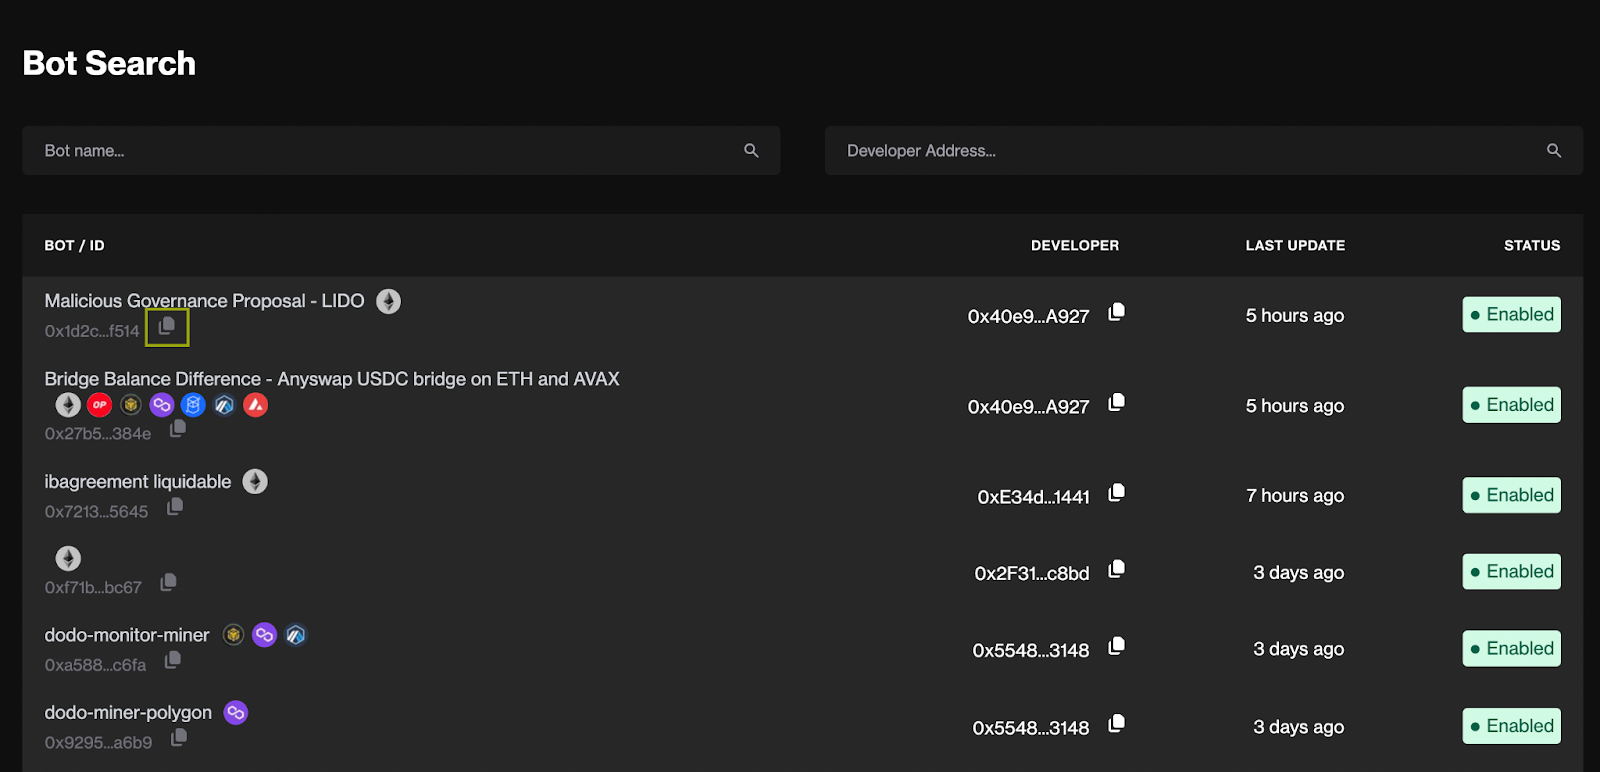
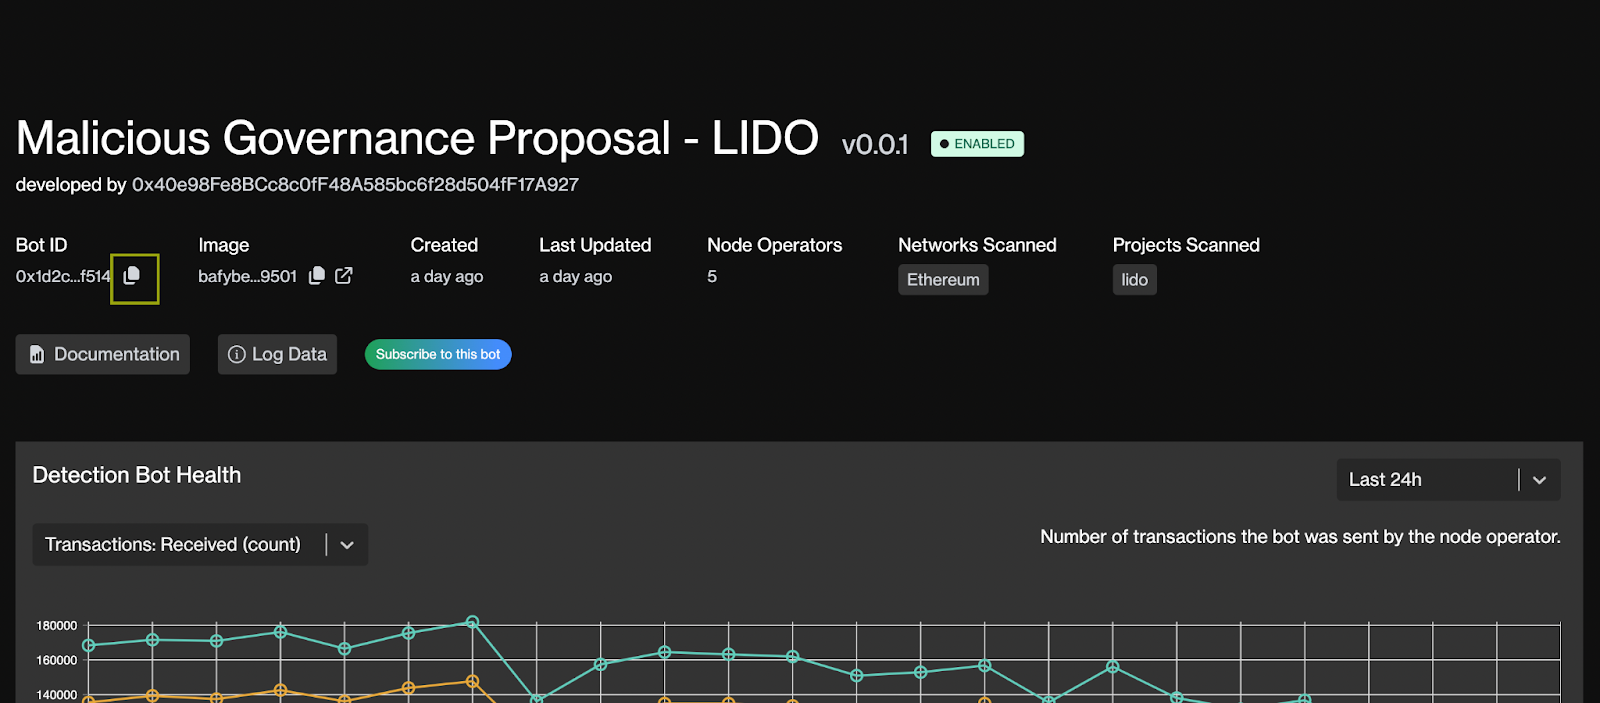
bot staking edits

diff --git a/docs/stake-on-detection-bot.md b/docs/stake-on-detection-bot.md
@@ -1,6 +1,6 @@
 # Staking on Detection Bots
 
-Staking on Forta Network detection bots occurs on Polygon mainnet. If you need to bridge your FORT tokens from Ethereum to Polygon check out [this guide](bridging-fort.md). This page will describe how to stake on a detection bot.
+This page will describe how to stake on Forta Network detection bots. Staking on bots occurs on Polygon mainnet. If you need to bridge your FORT tokens from Ethereum to Polygon check out [this guide](bridging-fort.md). The minimum stake remains nil to provide maximum accessibility at the outset of permissionless operations.
 
 ## Approve FORT
 
@@ -19,7 +19,7 @@ Staking on Forta Network detection bots occurs on Polygon mainnet. If you need t
 Once approved, you can search for a bot by name using Forta Explorer
 
 1. Go to [https://explorer.forta.network/bot-search](https://explorer.forta.network/bot-search)
-2. Search for the bot you want to stake on. In this example we are going to stake on a bot from Lido (but you can choose any bot you prefer)
+2. Search for the bot you want to stake on. In this example we are going to stake on a bot from Lido (but you can choose any bot you prefer). The bot ID can be found on the Bot Report Page specific to each bot on Forta Explorer
     1. Search for the bot
     2. Copy the bot ID
    ![Forta Explorer](stake-bot4.png)
